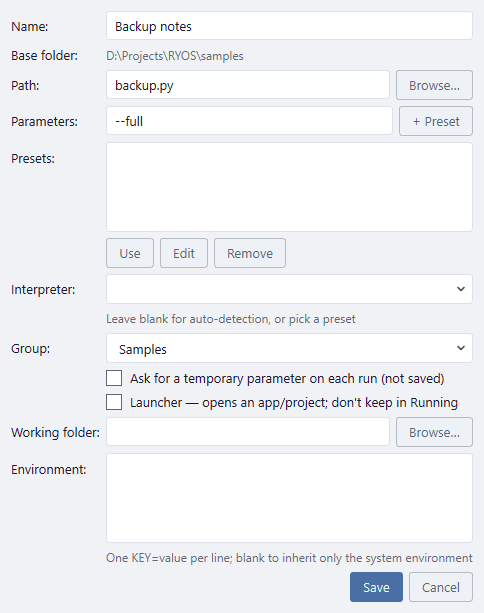
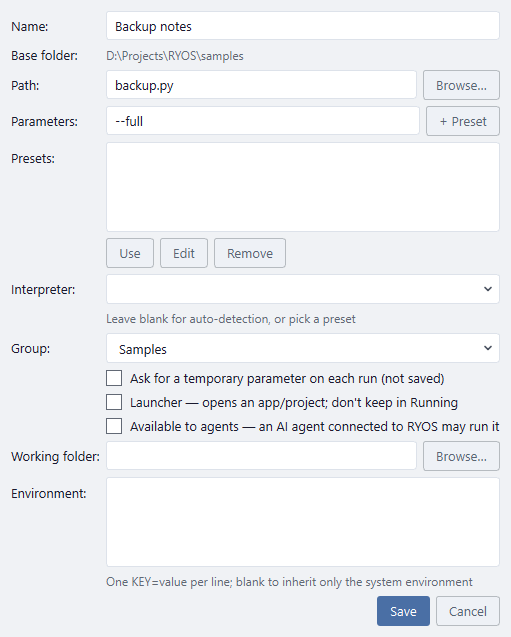
Docs: the command line, AI agents and the outside-folder tag
Agent support step 8 (docs/plans/agent-support.md).

- New tutorial page 13, "The command line and AI agents": ryos-cli (and
  `uv run ryos` from source) -- list, run, pipeline, naming, presets and
  --params=, --timeout, --json, exit codes, Task Scheduler; then agents
  over MCP -- the "Available to agents" tick, what an agent can and
  cannot do, setup for Claude Code and Claude Desktop (from source), and
  that script output is untrusted text.
- Groups: the OUTSIDE FOLDER tag and run note, and how a move or copy
  follows into another base folder (only to a file that is there).
- Adding a script / Pipelines: the new checkbox, with both dialog
  screenshots retaken off screen.
- README: features, the ryos-cli.exe in the download, two How-to rows,
  13 pages. TUTORIAL.md: the download is a zip, with ryos-cli.exe; page 13.

diff --git a/docs/tutorial/13-command-line-and-agents.md b/docs/tutorial/13-command-line-and-agents.md
@@ -1,0 +1,90 @@
+# The command line and AI agents
+
+Everything so far happens in the window. RYOS can also run your scripts and pipelines **without** it: from a terminal, from Windows Task Scheduler or a git hook, or for an **AI agent** such as Claude. The window can stay open while you do; its rows update when a run started elsewhere finishes.
+
+## The command line
+
+**Where it is.** In the Windows download, `ryos-cli.exe` sits next to `RYOS.exe` (`RYOS.exe` opens the window and can't print to a terminal). Run from source, it's `uv run ryos` followed by a command. The examples below use `ryos-cli`; from source, type `uv run ryos` instead.
+
+```text
+ryos-cli list                         every script and pipeline, and how to name each
+ryos-cli run Tools/backup             run a script and show its output as it goes
+ryos-cli run Tools/backup --preset full
+ryos-cli pipeline Release/ship        run a pipeline, every step
+```
+
+**Naming one.** Use the name the row shows, or `group/name` when the same name is in more than one group. RYOS refuses an ambiguous name and lists the ones you might mean. `ryos-cli list` shows each one's full name and its number (`#12`), which also works.
+
+**Parameters.** A script runs with its own parameters, unless you give a saved preset (`--preset LABEL`) or your own: `--params="--fast --verbose"`. Put the `=` in when the parameters start with a dash.
+
+**A few more options:**
+
+| Option | What it does |
+| --- | --- |
+| `--timeout 300` | Stop the run if it takes longer than 300 seconds. |
+| `--json` | Print one result at the end (how it went, exit code, times, the last lines of output) instead of streaming. Handy for scripts that call RYOS. |
+
+**How it went.** The exit code is the script's own: 0 when it passed. RYOS uses a few codes of its own, so a script that calls RYOS can tell them apart:
+
+| Exit code | Meaning |
+| --- | --- |
+| 1 | The run failed with no code of its own (a failed pipeline, a script that couldn't start). |
+| 124 | It ran past `--timeout` and was stopped. |
+| 125 | RYOS refused: no such script, an ambiguous name, no such preset, a missing file. |
+| 130 | You pressed **Ctrl+C**; the run was stopped first. |
+
+Runs from the command line are in **Run history** like any other.
+
+**Running on a timer without the window.** RYOS's own [schedules](07-schedules-and-history.md) need the window running (in the tray is enough). To run something when RYOS is closed, point Windows Task Scheduler at `ryos-cli.exe` with `run <group/name>` as the arguments.
+
+## Letting an AI agent run your scripts
+
+An AI agent connected to RYOS can see and run the scripts and pipelines you choose, and read their output, so you can ask it things like *"run the nightly backup and tell me if anything failed"*. It talks to RYOS through **MCP** (Model Context Protocol), the standard way tools like Claude Code and Claude Desktop connect to other programs.
+
+### Choose what it may run
+
+Nothing is available to an agent until you say so. Open a script (or a pipeline) and tick **Available to agents — an AI agent connected to RYOS may run it**, then **Save**.
+
+![The script dialog, with three options under Group: Ask for a temporary parameter on each run, Launcher, and Available to agents](images/02-add-script-dialog.png)
+
+What an agent can and can't do:
+
+- It sees **only** what you ticked. Everything else isn't there at all: it can't list it, run it, or learn its name. Untick a script and the agent loses it at once.
+- It runs a script with its own parameters, or one of its saved presets. It **cannot** pass parameters of its own.
+- It can stop a run it started, and read a run's output a page at a time.
+- A pipeline you tick runs all its steps, whatever the steps' own settings.
+- Ticking isn't copied by an import, and a copy or move that makes a script run a different file (into another group's base folder) loses it. Tick it again if you want the agent to have that one too.
+
+Only tick what you'd be happy for the agent to run without asking you first.
+
+### Connect Claude
+
+The MCP server runs from RYOS's source: [`uv`](https://docs.astral.sh/uv/) and a copy of RYOS (a clone, or the extracted **RYOS-portable.zip**). It is not in the Windows download yet. In the commands below, replace `C:\Tools\RYOS` with that folder.
+
+**Claude Code**, in a terminal:
+
+```text
+claude mcp add ryos -- uv run --directory C:\Tools\RYOS --extra mcp ryos mcp
+```
+
+**Claude Desktop**: open *Settings → Developer → Edit Config* and add RYOS to `claude_desktop_config.json`:
+
+```json
+{
+  "mcpServers": {
+    "ryos": {
+      "command": "uv",
+      "args": ["run", "--directory", "C:\\Tools\\RYOS", "--extra", "mcp", "ryos", "mcp"]
+    }
+  }
+}
+```
+
+Restart Claude Desktop. Ask it to *"list my RYOS scripts"* to check it's connected.
+
+The agent's runs appear in **Run history** like any other, and the window's rows update when they finish.
+
+> **Output is just text.** A script's output goes back to the agent as-is. If a script prints something that looks like an instruction, a careful agent reports it rather than doing what it says, but keep that in mind before making a script that reads web pages or e-mail available.
+
+---
+[← Tips](12-tips.md) · [Contents](README.md)

diff --git a/README.md b/README.md
@@ -28,6 +28,8 @@ Built with Python + Qt (PySide6). Ships as a standalone `.exe` (no Python requir
 - **Maximised layout** — maximise the window and the list moves left while the chosen script or pipeline, its presets, steps and output fill the right.
 - **Tabbed output** — live output per run, **errors in red**, find, errors-only, copy or save any tab.
 - **Drag & drop** — drop script files on the window to add them; drag rows to reorder or onto a group to move them.
+- **Command line** — `ryos-cli list`, `run` and `pipeline` run any script or pipeline from a terminal, Task Scheduler or a git hook, with JSON output and meaningful exit codes.
+- **AI agents (MCP)** — let Claude Code, Claude Desktop or another MCP client run the scripts you tick **Available to agents**, with their own parameters or a saved preset, and read the output.
 - **Tray, notifications, updates** — keep running in the tray, a Windows toast when a run finishes, and a check for new releases.
 - **Themes** — one set of drawn icons that follows the theme; Light and Dark built in, a theme creator (7 colours + live preview), import/export, and more in the [theme gallery](theme-gallery/GALLERY.md). Every colour follows the theme and is checked for contrast.
 - **Multi-monitor aware** — opens on the monitor under the cursor; at login, on the last screen you used.
@@ -41,6 +43,8 @@ Download the latest release, unzip, and run:
 ```
 RYOS.exe
 ```
+
+`ryos-cli.exe` in the same folder is the command line (`ryos-cli list`, `ryos-cli run <script>`).
 
 Your scripts and settings live in `%APPDATA%\RYOS` (`scripts.db`, `settings.json`, logs), so replacing the exe with a newer one keeps them.
 
@@ -68,6 +72,8 @@ The **[illustrated user guide](docs/tutorial/README.md)** walks through every sc
 | Run a file by name | **Quick Run** (groups with a base folder) | [Quick Run](docs/tutorial/08-quick-run.md) |
 | Back up / move | **File → Export all groups…** / **Import config…** | [Import and export](docs/tutorial/10-import-export.md) |
 | Change settings and look | **Options → Options…** and **Appearance…** | [Settings](docs/tutorial/11-settings.md) |
+| Run from a terminal | `ryos-cli run <script>` (from source: `uv run ryos run <script>`) | [The command line and AI agents](docs/tutorial/13-command-line-and-agents.md) |
+| Let an AI agent run scripts | Tick **Available to agents**, then connect Claude to `ryos mcp` | [The command line and AI agents](docs/tutorial/13-command-line-and-agents.md) |
 
 ## Supported Script Types
 
@@ -114,7 +120,7 @@ Execution runs in a `threading.Thread`; output is piped through a `queue.Queue` 
 
 ## Documentation
 
-- [Illustrated user guide](docs/tutorial/README.md) — a 12-page walkthrough with real screenshots of every screen.
+- [Illustrated user guide](docs/tutorial/README.md) — a 13-page walkthrough with real screenshots of every screen.
 - [Theme gallery](theme-gallery/GALLERY.md) — preview and download extra themes.
 - [Architecture](docs/ARCHITECTURE.md) — module map, threading model, data flow.
 - [Module reference](docs/API_REFERENCE.md) — public API of the core modules.

diff --git a/docs/tutorial/04-groups.md b/docs/tutorial/04-groups.md
@@ -2,6 +2,8 @@
 
 A group is a set of scripts and pipelines that belong together — *Work* and *Home*, or one per project. Each group can also have a **base folder**: the folder its scripts live in, which paths are relative to and which [Quick Run](08-quick-run.md) searches.
 
+A script whose file, or working folder, is somewhere else gets an **OUTSIDE FOLDER** tag (point at it to see which part), and its run starts with a one-line note saying so. That's usually a slip, but nothing stops it from running. A pipeline gets the tag when one of its steps is outside.
+
 ![The group pills under the search box: Samples (chosen, filled dark), Tools, a dashed + for a new group, and All](images/04-group-pills.png)
 
 ## Making and switching groups
@@ -33,6 +35,8 @@ Drag a pill left or right to change the order of your groups.
 
 Drag a row onto another group's pill to move it there. Drag it up or down within its panel to change its place; a line shows where it will land.
 
+When both groups have a base folder, a moved script follows into the new one: `<old folder>\tools\x.py` becomes `<new folder>\tools\x.py`, and its working folder the same way — but only when that file (or folder) is there. Otherwise it keeps running the file it had, and RYOS says it is outside the new group's folder.
+
 ## Copying to another group
 
 To keep the original where it is and put a copy in another group:
@@ -40,7 +44,7 @@ To keep the original where it is and put a copy in another group:
 - **Copy to.** Right-click the row → **Copy to** → pick the group. Done in one step.
 - **Copy and Paste.** Right-click the row → **Copy** (or select the row and press **Ctrl+C**). Then right-click another group's pill → **Paste**, or press **Ctrl+V** on any row in that group. Paste names what it will paste, and you can paste the same thing into several groups.
 
-A copied script keeps everything that defines how it runs — parameters, interpreter, environment, working folder — and its saved presets. A copied pipeline brings the scripts its steps run, so it works and can be edited in its new group. If that group already has a script that runs exactly the same way, the copy uses it instead of adding a second one.
+A copied script keeps everything that defines how it runs — parameters, interpreter, environment, working folder — and its saved presets. Into another group with a base folder, its path and working folder follow into that folder, as a move does. A copied pipeline brings the scripts its steps run, so it works and can be edited in its new group. If that group already has a script that runs exactly the same way, the copy uses it instead of adding a second one.
 
 A copy keeps the star and highlight colour too, but not a schedule or run history: those stay with the original. (**Clone** makes the same kind of copy in the same group, named "… (copy)".)
 

diff --git a/docs/tutorial/06-pipelines.md b/docs/tutorial/06-pipelines.md
@@ -6,7 +6,7 @@ A **pipeline** runs several scripts one after another: *build, then test, then p
 
 Click **+ Pipeline** in the header (or **File → New Pipeline…**), name it, and the editor opens. To change it later, point at its row and click the pencil, or right-click → **Edit…**.
 
-![The pipeline editor for "Resilient": Name; four steps reading "Flaky · keeps going · 3 retries", "Always fails · keeps going", "Cleanup · only if something has failed" and "Say hello"; Up, Down, Remove and With Prev; the step settings; Add step; and Save and Cancel](images/06-pipeline-editor.png)
+![The pipeline editor for "Resilient": Name and Available to agents; four steps reading "Flaky · keeps going · 3 retries", "Always fails · keeps going", "Cleanup · only if something has failed" and "Say hello"; Up, Down, Remove and With Prev; the step settings; Add step; and Save and Cancel](images/06-pipeline-editor.png)
 
 - **Add a step**: pick a script under **Add step** and click **Add**.
 - **Order**: select a step and use **Up** / **Down**. **Remove** takes it out.
@@ -21,7 +21,7 @@ Select a step to set how it behaves; the list says in words what you've changed:
 | **Run this step** | *Always*, *Only if nothing has failed*, or *Only if something has failed* — the last is handy for a clean-up step. |
 | **Step preset** | Which of the script's presets this step uses. |
 
-Click **Save** when you're done.
+Click **Save** when you're done. **Available to agents**, under the name, lets an AI agent run the pipeline (all its steps); see [The command line and AI agents](13-command-line-and-agents.md).
 
 ## Run it
 

diff --git a/docs/tutorial/02-adding-a-script.md b/docs/tutorial/02-adding-a-script.md
@@ -10,7 +10,7 @@ Drag one or more script files from File Explorer onto the RYOS window. Each beco
 
 Click **+ Script** in the header (or **File → New Script…**). Fill in the dialog and click **Save**.
 
-![The script dialog filled in: Name "Backup notes", the group's base folder, Path "backup.py" with Browse…, Parameters "--full" with + Preset, an empty Presets list, Interpreter, Group, two options, Working folder, Environment, and Save and Cancel](images/02-add-script-dialog.png)
+![The script dialog filled in: Name "Backup notes", the group's base folder, Path "backup.py" with Browse…, Parameters "--full" with + Preset, an empty Presets list, Interpreter, Group, three options, Working folder, Environment, and Save and Cancel](images/02-add-script-dialog.png)
 
 | Field | What to enter |
 | --- | --- |
@@ -23,6 +23,7 @@ Click **+ Script** in the header (or **File → New Script…**). Fill in the di
 | **Group** | Which group the script belongs to. |
 | **Ask for a temporary parameter on each run** | RYOS asks for extra arguments every time you run it. |
 | **Launcher** | For a script that opens an app or project and leaves it running: RYOS doesn't keep it in the Running list. |
+| **Available to agents** | Lets an AI agent connected to RYOS run it. Off unless you tick it. See [The command line and AI agents](13-command-line-and-agents.md). |
 | **Working folder** | *(optional)* The folder it runs in. Blank means the script's own folder. |
 | **Environment** | *(optional)* Extra variables, one `KEY=value` per line. |
 

diff --git a/TUTORIAL.md b/TUTORIAL.md
@@ -9,7 +9,7 @@ The full guide, with real screenshots of every screen, is the **[illustrated use
 ## Installation
 
 ### Option A — Standalone executable
-Download `RYOS.exe` and double-click it. No installation required.
+Download `RYOS-windows.zip` from the latest release, extract it, and double-click `RYOS.exe`. No installation required. `ryos-cli.exe` beside it is the command line.
 
 ### Option B — Portable (run from source)
 1. Download and extract `RYOS-portable.zip`.
@@ -34,3 +34,4 @@ Download `RYOS.exe` and double-click it. No installation required.
 10. [Import and export](docs/tutorial/10-import-export.md) — backing up and moving your setup.
 11. [Settings and appearance](docs/tutorial/11-settings.md) — Options, themes and the accent colour.
 12. [Tips](docs/tutorial/12-tips.md) — compact rows, select mode, and small time-savers.
+13. [The command line and AI agents](docs/tutorial/13-command-line-and-agents.md) — running scripts from a terminal, and letting Claude run the ones you choose.

diff --git a/docs/tutorial/12-tips.md b/docs/tutorial/12-tips.md
@@ -28,4 +28,4 @@
 - **Back up.** **File → Export all groups…** now and then, and your setup is one import away.
 
 ---
-[← Settings and appearance](11-settings.md) · [Contents](README.md)
+[← Settings and appearance](11-settings.md) · [Contents](README.md) · [Next: The command line and AI agents →](13-command-line-and-agents.md)

diff --git a/docs/plans/agent-support.md b/docs/plans/agent-support.md
@@ -104,5 +104,5 @@ Steps 3–4 are independent of 2 and can go first or in between. 5 needs 2b; 7 n
 | 5 CLI | done |
 | 6 Console build | done (`ryos-cli.exe`; build 65 MB) |
 | 7 MCP | done (SDK 2.x `MCPServer`) |
-| 8 Docs | — |
+| 8 Docs | done (tutorial page 13, README) |
 | 9 Release | — |

diff --git a/docs/tutorial/README.md b/docs/tutorial/README.md
@@ -18,6 +18,7 @@ Every picture here was captured from the real app (the **Samples** group that sh
 10. [Import and export](10-import-export.md)
 11. [Settings and appearance](11-settings.md)
 12. [Tips](12-tips.md)
+13. [The command line and AI agents](13-command-line-and-agents.md)
 
 ---
 
